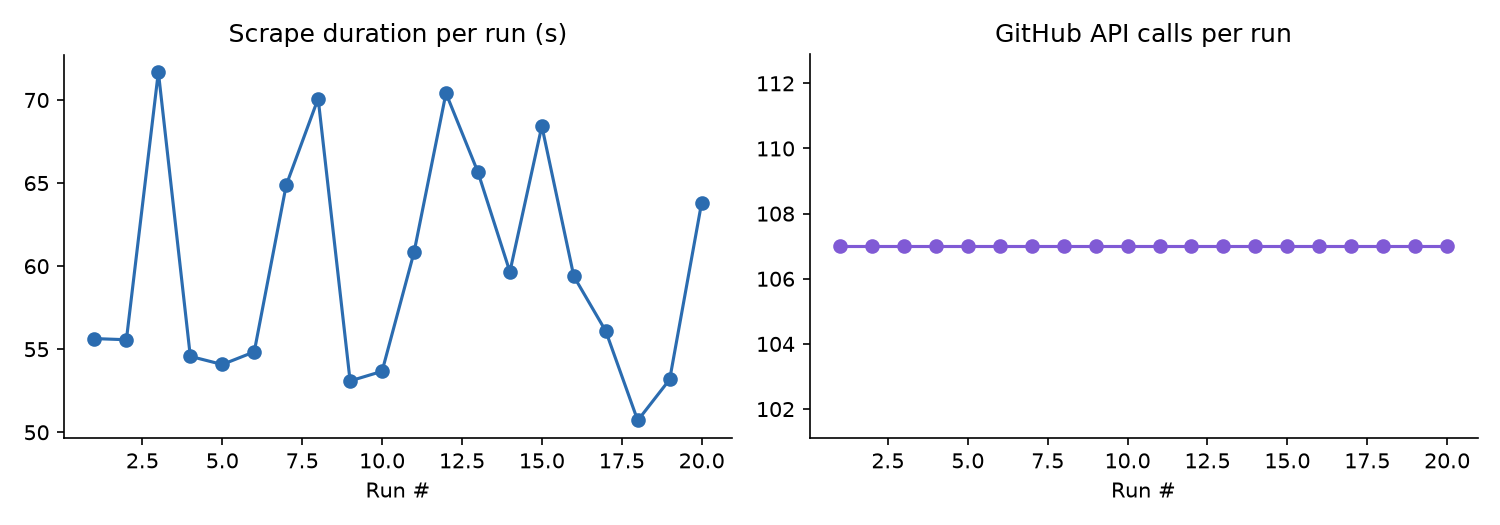
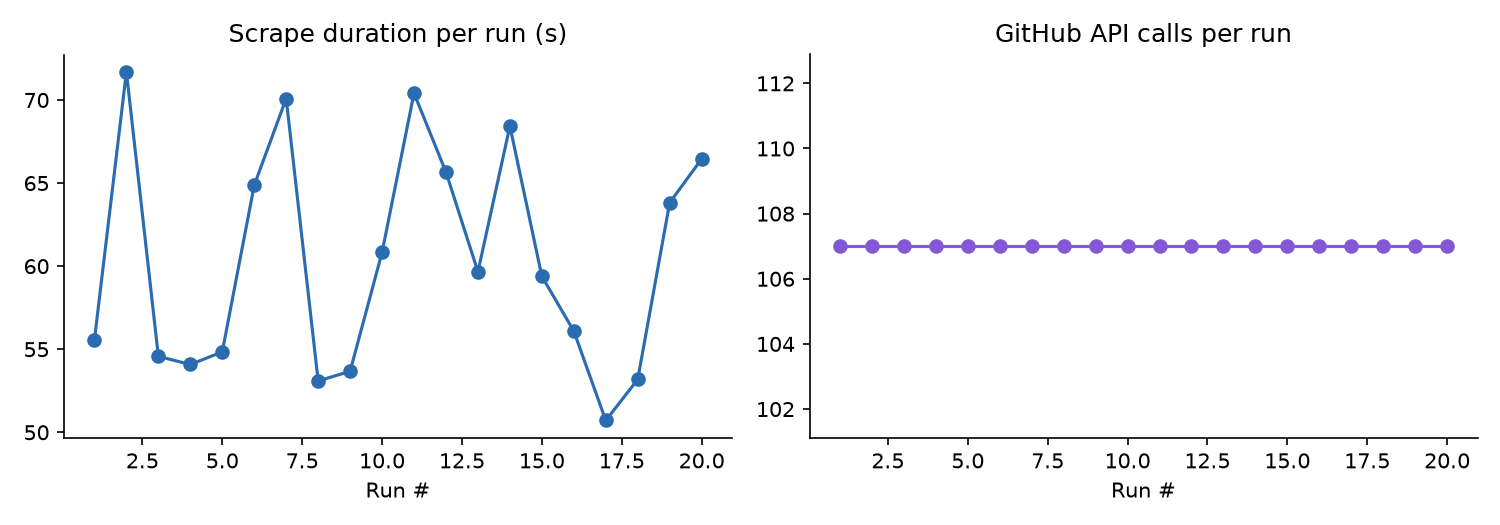
Weekly issue tracker refresh

diff --git a/README.md b/README.md
@@ -81,7 +81,7 @@ See [CONTRIBUTING.md](CONTRIBUTING.md) for the full contributor workflow — inc
 
 <!-- TRACKER:START -->
 
-_Last updated: 2026-07-25 03:43 UTC_
+_Last updated: 2026-07-25 04:50 UTC_
 
 _Tracking **18** upstream repos, **389** relevant open issues._
 
@@ -188,6 +188,7 @@ _Tracking **18** upstream repos, **389** relevant open issues._
 
 | Score | Issue | Labels | Comments | Updated |
 |---|---|---|---|---|
+| ★★★☆☆ | [#129705](https://github.com/kubernetes/kubernetes/issues/129705)  ListWatch: StreamWatcher is consuming high memory in high pod churn | sig/scalability, help wanted, needs-triage | 10 | 2026-07-25 |
 | ★★★☆☆ | [#140489](https://github.com/kubernetes/kubernetes/issues/140489) Add `[Feature:Networking-IPv6]` and `[Feature:SCTPConnectivity]` CI | sig/network, help wanted, sig/testing, area/ipv6, triage/accepted, area/network-policy | 9 | 2026-07-22 |
 | ★★★☆☆ | [#115939](https://github.com/kubernetes/kubernetes/issues/115939) Reuse the http request object for http probes | area/kubelet, sig/node, help wanted, good first issue, needs-triage | 46 | 2026-07-22 |
 | ★★★☆☆ | [#126379](https://github.com/kubernetes/kubernetes/issues/126379) add and use alternative APIs which support contextual logging | area/logging, kind/feature, help wanted, sig/instrumentation, good first issue, triage/accepted, wg/structured-logging | 40 | 2026-07-17 |
@@ -195,7 +196,6 @@ _Tracking **18** upstream repos, **389** relevant open issues._
 | ★★★☆☆ | [#114369](https://github.com/kubernetes/kubernetes/issues/114369) NetworkPolicy tests for blocking north/south traffic | priority/backlog, sig/network, help wanted, good first issue, triage/accepted, area/network-policy | 38 | 2026-07-15 |
 | ★★★☆☆ | [#138149](https://github.com/kubernetes/kubernetes/issues/138149) Migrate DRA components to support granular authorization on status updates | sig/network, sig/node, sig/auth, help wanted, good first issue, triage/accepted, wg/device-management | 71 | 2026-07-14 |
 | ★★★☆☆ | [#135058](https://github.com/kubernetes/kubernetes/issues/135058) DRA: measure and track performance of "experimental" allocator | kind/feature, help wanted, good first issue, needs-triage, wg/device-management | 20 | 2026-06-17 |
-| ★★★☆☆ | [#115782](https://github.com/kubernetes/kubernetes/issues/115782) Write the stress test for gRPC, http, and tcp probes | priority/backlog, kind/cleanup, sig/node, help wanted, good first issue, needs-triage | 39 | 2026-06-16 |
 
 ### [langfuse/langfuse](https://github.com/langfuse/langfuse)
 
@@ -294,7 +294,7 @@ _Tracking **18** upstream repos, **389** relevant open issues._
 
 <!-- METRICS:START -->
 
-_Last run: 2026-07-25 03:42 UTC, took **63.8s**, **107** GitHub API calls, **4894/5000** rate limit remaining._
+_Last run: 2026-07-25 04:49 UTC, took **66.4s**, **107** GitHub API calls, **4894/5000** rate limit remaining._
 
 ![Scrape metrics trend](assets/metrics_trend.png)
 
